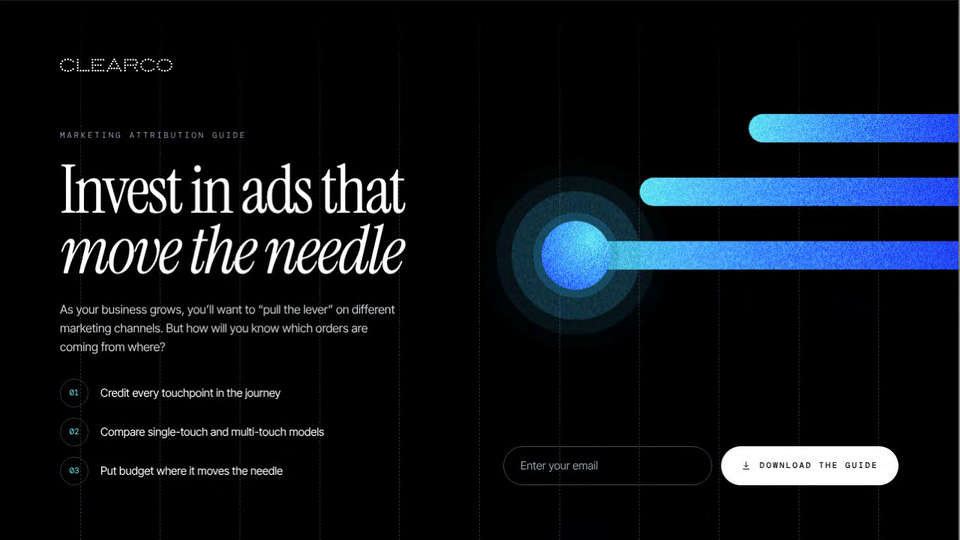
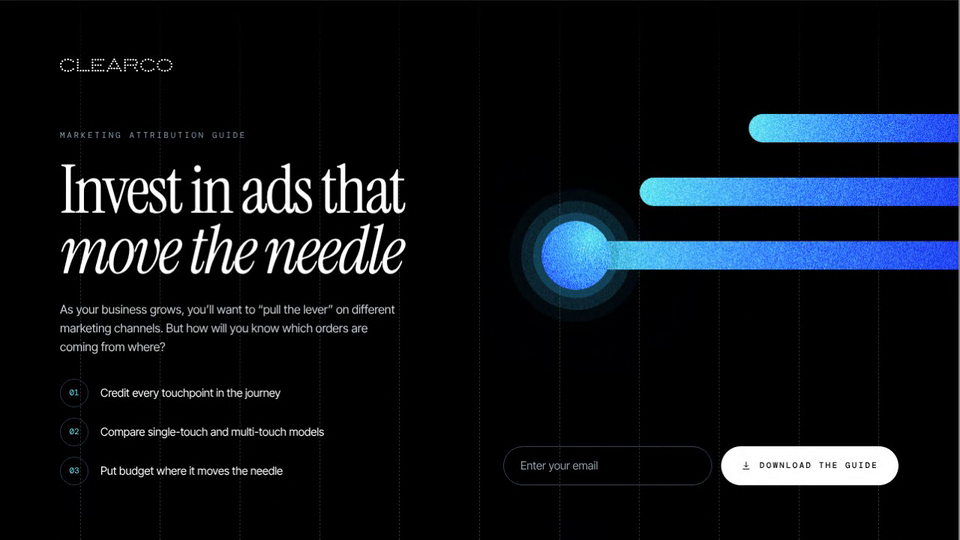
Attribution Guide: hero circle grows from the bar, rests, ripples and falls back; 02 numeral to the right; trail bars stop at the midline with more spacing
Claude-Session: https://claude.ai/code/session_01AHeBdyii5AjQS77wpPRRok

diff --git a/clearco-attribution-guide/index.html b/clearco-attribution-guide/index.html
@@ -98,6 +98,7 @@ section,.band{position:relative;overflow:hidden}
 .points li{display:flex;gap:16px;align-items:center;font-size:15px;line-height:1.4}
 .points i{flex:none;width:38px;height:38px;border:1px solid #2b3d52;border-radius:50%;display:grid;place-items:center;font:400 11px/1 var(--mono);font-style:normal;color:var(--cyan)}
 .vis{position:relative;flex:1;margin-top:clamp(12px,1.4vw,18px);min-height:clamp(320px,34vw,440px);width:calc(100% + (100vw - min(1120px,100vw - 40px)) / 2)}
+[data-grow] .hw{opacity:1;transform:translateY(-50%) scale(var(--hs,.41))}
 [data-ripple] .rp i{animation:none;transform:translate(-50%,-50%) scale(calc(.65 + var(--e,0) * .6));opacity:calc(var(--a,0) * 1)}
 [data-ripple] .rp i:nth-child(1){width:190%}[data-ripple] .rp i:nth-child(2){width:250%}[data-ripple] .rp i:nth-child(3){width:320%}
 .vis .dl{-webkit-mask-image:linear-gradient(transparent 20%,#000 60%);mask-image:linear-gradient(transparent 20%,#000 60%)}
@@ -130,7 +131,7 @@ section,.band{position:relative;overflow:hidden}
 .chead{position:relative;margin-bottom:clamp(40px,5vw,72px);min-height:clamp(96px,15.2vw,218px)}
 .chead h2{position:relative;z-index:1;font:400 clamp(52px,8.6vw,132px)/.88 var(--serif);letter-spacing:-.04em;max-width:none}
 .chead .num{position:absolute;right:clamp(0px,11vw,150px);bottom:0;z-index:0;margin:0}
-.chead .num.hi{top:38px;bottom:auto;right:min(22vw,290px)}
+.chead .num.hi{top:38px;bottom:auto;right:0}
 .chead .mono{display:block;margin-bottom:22px;color:var(--mute);position:relative;z-index:1}
 .dk .chead .mono{color:#8fa0ad}
 @media (max-width:640px){.chead .num.hi{top:auto;right:auto}.chead .num{position:static;display:block;margin-bottom:14px}.chead{display:flex;flex-direction:column-reverse}}
@@ -291,7 +292,7 @@ footer .sign{margin-top:28px;color:#8fa0ad;font-size:14px}
       </ul>
     </div>
     <div class="rcol">
-    <div class="vis" data-anim="6.4" data-ripple role="img" aria-label="Three horizontal gradient pills extend in from the right edge of a black page with dashed guide lines; the longest ends in a glowing circle with ripples around it">
+    <div class="vis" data-anim="7.4" data-ripple data-grow role="img" aria-label="Three horizontal gradient pills extend in from the right edge of a black page with dashed guide lines; the longest ends in a glowing circle with ripples around it">
       <div class="pr" style="--y:12%;--h:38px;--w:.46" data-d="0.5"></div>
       <div class="pr" style="--y:30%;--h:38px;--w:.7" data-d="0.25"></div>
       <div class="pr" style="--y:48%;--h:38px;--w:.84;--hd:92px" data-d="0"><span class="hw"><span class="rp"><i></i><i></i><i></i></span><span class="hd"></span></span></div>
@@ -356,9 +357,9 @@ footer .sign{margin-top:28px;color:#8fa0ad;font-size:14px}
 <div class="band lt">
   <div class="trail" data-anim="8.4" data-ripple>
     <div class="pills" aria-hidden="true">
-      <div class="pr" style="--y:calc(50% - var(--h) * 2.05);--w:.9" data-d="0"><span class="hw"><span class="rp"><i></i><i></i><i></i></span><span class="hd"></span></span></div>
-      <div class="pr" style="--y:calc(50% - var(--h) * .65);--w:.74" data-d=".5"><span class="hw"><span class="rp"><i></i><i></i><i></i></span><span class="hd"></span></span></div>
-      <div class="pr" style="--y:calc(50% + var(--h) * .75);--w:.84" data-d="1"><span class="hw"><span class="rp"><i></i><i></i><i></i></span><span class="hd"></span></span></div>
+      <div class="pr" style="--y:calc(50% - var(--h) * 2.4);--w:.44" data-d="0"><span class="hw"><span class="rp"><i></i><i></i><i></i></span><span class="hd"></span></span></div>
+      <div class="pr" style="--y:calc(50% - var(--h) * .65);--w:.33" data-d=".5"><span class="hw"><span class="rp"><i></i><i></i><i></i></span><span class="hd"></span></span></div>
+      <div class="pr" style="--y:calc(50% + var(--h) * 1.1);--w:.4" data-d="1"><span class="hw"><span class="rp"><i></i><i></i><i></i></span><span class="hd"></span></span></div>
     </div>
     <div class="wrap" style="width:100%;display:flex;justify-content:flex-start">
       <div class="copy">
@@ -473,7 +474,7 @@ footer .sign{margin-top:28px;color:#8fa0ad;font-size:14px}
      with the circle leading, hold, then pull back in. Dots with data-at appear as the lead pill passes them. */
   var groups = [].map.call(document.querySelectorAll('[data-anim]'), function(el){
     var g = { el: el, T: +el.dataset.anim || 7, on: false,
-      pls: [].map.call(el.querySelectorAll('.pl,.pr'), function(p){ return { el: p, d: +p.dataset.d || 0 }; }),
+      pls: [].map.call(el.querySelectorAll('.pl,.pr'), function(p){ var cs = getComputedStyle(p), h = parseFloat(cs.getPropertyValue('--h')) || 34, hd = parseFloat(cs.getPropertyValue('--hd')) || 56; return { el: p, d: +p.dataset.d || 0, k: Math.min(1, h / hd) }; }),
       dots: [].map.call(el.querySelectorAll('[data-at]'), function(d){ d.style.setProperty('--at', d.dataset.at); return { el: d, at: +d.dataset.at }; }) };
     vis(el, function(v){ g.on = v; });
     return g;
@@ -493,7 +494,12 @@ footer .sign{margin-top:28px;color:#8fa0ad;font-size:14px}
         p.el.style.setProperty('--p', v.toFixed(4));
         var rp = g.el.hasAttribute('data-ripple') && p.el.querySelector('.rp');
         if (rp) {            /* the circle comes in as the pill extends; once it rests the ripple pulses twice */
-          var r = reduce ? .5 : clamp01((t - p.d - 1.7) / (g.T - 2.7 - 1.7));
+          var u = t - p.d, grow = g.el.hasAttribute('data-grow'), r0 = grow ? 2.5 : 1.7, r1 = grow ? g.T - 3.5 : g.T - 2.7;
+          var r = reduce ? .5 : clamp01((u - r0) / (r1 - r0));
+          if (grow) {        /* the head grows out of the bar's thickness, rests while the ripple plays, then falls back into the bar */
+            var up = eio(clamp01((u - 1.8) / .7)), dn = eio(clamp01((u - (g.T - 3.4)) / .6));
+            p.el.querySelector('.hw').style.setProperty('--hs', (reduce ? 1 : p.k + (1 - p.k) * up * (1 - dn)).toFixed(4));
+          }
           [].forEach.call(rp.children, function(ring, n){
             var f = reduce ? .5 : ((r * 2 - n * .1) % 1 + 1) % 1, on = reduce || (r > 0 && r < 1 && r * 2 - n * .1 > 0);
             ring.style.setProperty('--e', f.toFixed(3)); ring.style.setProperty('--a', on ? (Math.sin(Math.PI * f) * (1 - n * .22)).toFixed(3) : 0);

diff --git a/tools/record-clips.js b/tools/record-clips.js
@@ -25,8 +25,8 @@ const domClick = (p, sel) => p.evaluate((s) => document.querySelector(s).click()
 /* vp: viewport, crop: [x, y, w, h] in css px (16:9, becomes 960x540), run: timeline of actions (ms after the page is ready).
    Apps that move on their own just wait; the others are driven the way a visitor would use them. */
 const APPS = {
-  // the hero pills run on a 6.4 s cycle on their own; wait until they have just extended so the loop starts on the full composition
-  'clearco-attribution-guide': { vp: [1280, 769], crop: [0, 49, 1280, 720], ready: 400, run: async () => {} },
+  // the hero pills run on a 7.4 s cycle on their own; wait until the circle has grown so the loop starts on the full composition
+  'clearco-attribution-guide': { vp: [1280, 769], crop: [0, 49, 1280, 720], ready: 1100, run: async () => {} },
   'clearco-logistics-guide': { vp: [1280, 769], crop: [0, 49, 1280, 720], run: async (p) => {
     const t0 = Date.now();
     const go = (id, d) => p.evaluate(([i, o]) => scrollTo(0, document.getElementById(i).offsetTop - 49 + o), [id, d]);
